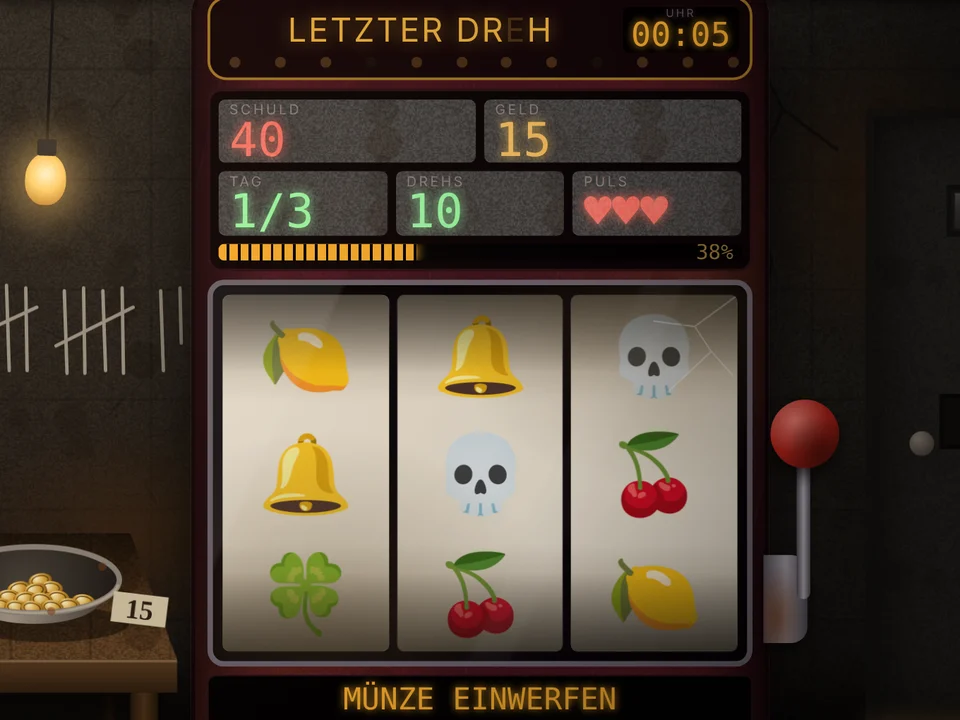
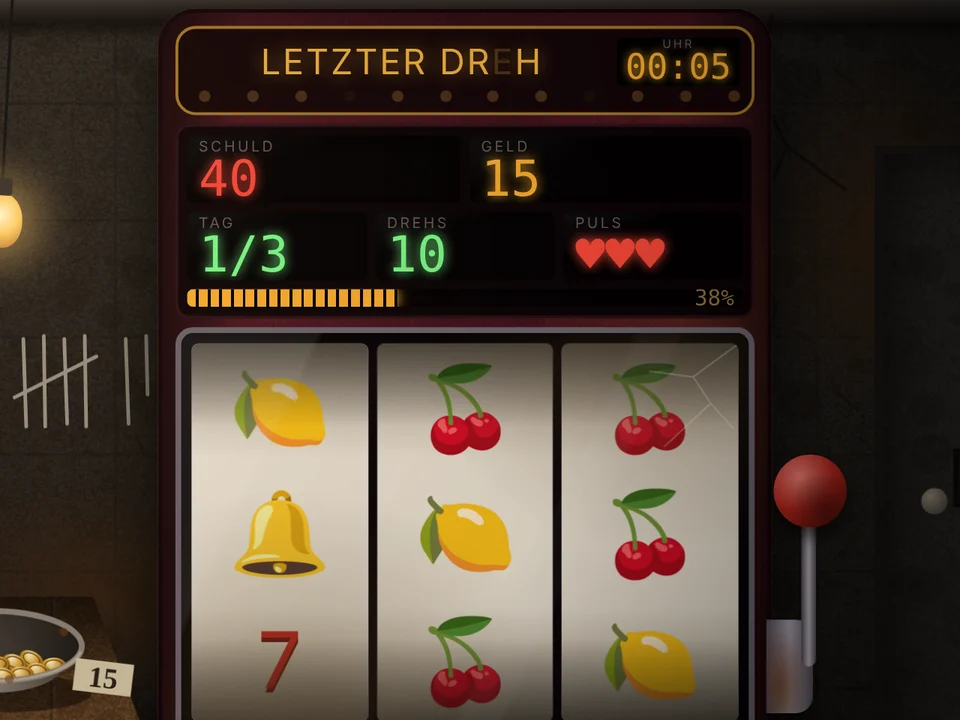
Karten: Letzter Dreh aktualisiert (Kassierer, Zahltag, Türspion, Messer, Gewitter, neue Bilder)
Claude-Session: https://claude.ai/code/session_01K5z61DLcxYTA1iRnY2zuiT

diff --git a/karten/werte.js b/karten/werte.js
@@ -67,6 +67,11 @@ window.WERTE = {
   "ld-klappe":     { t: "zauber", kosten: 1, sucheTyp: "ausr" },
   "ld-hebel":      { t: "ausr", kosten: 2, plusSchaden: 2 },
   "ld-zelle":      { t: "ort", kosten: 2, ort: "zelle" },
+  "ld-kassierer":  { t: "wesen", hp: 11, atk: [["Kassieren", 2, 3, "saugen"], ["Zahltag", 6, 7]] },
+  "ld-zahltag":    { t: "zauber", kosten: 5, schadenAlleFeinde: 3, frostAlle: true },
+  "ld-tuerspion":  { t: "zauber", kosten: 1, ziel: "feindWesen", schaden: 1, frost: true },
+  "ld-messer":     { t: "zauber", kosten: 2, ziel: "feindWesen", schaden: 4 },
+  "ld-gewitter":   { t: "zauber", kosten: 2, frostAlle: true },
   "feuerkoenig":   { t: "wesen", hp: 11, pas: "untot", atk: [["Feuerball", 2, 3], ["Lavawelle", 5, 3, "alle"]] },
 
   /* ---------------- Kammerwerk ---------------- */
@@ -269,7 +274,7 @@ window.GEGNER_DECKS = [
   { name: "Ameisenvolk", deck: ["waldameise", "waldameise", "ernteameise", "ernteameise", "blattschneider", "spinne", "honigtopf", "koenigin", "treiberameise", "gruenling", "gruenling", "kraeuter", "blattlausfarm", "pilzgarten", "funke", "funke", "dolch", "heiltrank", "rivalen", "muenze"] },
   { name: "Turmwacht", deck: ["bolzenturm", "bolzenturm", "kanone-sf", "kanone-sf", "frostkristall", "frostkristall", "blitzspule", "moerser", "leuchtfeuer", "schildtraeger", "wuerfel", "wuerfel", "kristallkern", "kristallkern", "sternblock", "feueratem", "funke", "muenze", "laterne", "burg"] },
   { name: "Nebelwald", deck: ["spinne", "blattschneider", "golem", "drako", "rissbestie", "rissbestie", "kiko", "ernteameise", "waldameise", "phantom", "verband", "gifttrank", "gifttrank", "bombe", "pfotentrank", "grimoire", "fuchsschild", "umhang", "uralter-baum", "heiltrank"] },
-  { name: "Letzter Dreh", deck: ["ld-automat", "ld-glaeubiger", "ld-augen", "ld-augen", "ld-schatten", "ld-schatten", "ld-schatten", "ld-777", "ld-schaedel", "ld-joker", "ld-risiko", "ld-risiko", "ld-strom", "ld-licht", "ld-telefon", "ld-schale", "ld-tagebuch", "ld-striche", "ld-hebel", "ld-zelle"] },
+  { name: "Letzter Dreh", deck: ["ld-automat", "ld-glaeubiger", "ld-augen", "ld-augen", "ld-schatten", "ld-schatten", "ld-kassierer", "ld-777", "ld-schaedel", "ld-joker", "ld-risiko", "ld-risiko", "ld-strom", "ld-licht", "ld-telefon", "ld-messer", "ld-gewitter", "ld-zahltag", "ld-hebel", "ld-zelle"] },
   { name: "Kiko Hüpft", deck: ["kiko", "gruenling", "gruenling", "panzerkaefer", "panzerkaefer", "stachler", "stachler", "flatterling", "flatterling", "kiko-dino", "feuerkoenig", "sternblock", "sternblock", "muenze", "muenze", "roehre", "extraleben", "vier-freunde", "wiesenland", "heiltrank"] },
   { name: "Klarwasser", deck: ["kw-neon", "kw-neon", "kw-guppy", "kw-guppy", "kw-cory", "kw-shrimp", "kw-gourami", "kw-loach", "kw-pleco", "kw-betta", "kw-malawi", "kw-angel", "kw-root", "kw-holey", "kw-cave", "kw-castle", "kw-leaves", "kw-fern", "kw-wreck", "kw-becken"] },
   { name: "Wildnis", deck: ["w-schwein", "w-schwein", "w-huhn", "w-kuh", "w-wolf", "w-wolf", "w-zombie", "w-zombie", "w-skelett", "w-hoehlenspinne", "w-drache", "w-spitzhacke", "w-spitzhacke", "w-fackel", "w-eisen", "w-gold", "w-werkbank", "w-diamant", "w-dschungel", "heiltrank"] },

diff --git a/karten/index.html b/karten/index.html
@@ -768,6 +768,11 @@ const CARDS = [
   { id: "ld-klappe",   set: "letzter-dreh", r: "rare",      pow: 3,  name: "Die Klappe",           pic: "ld-klappe",   scene: "foto", text: "Ein Tablett wird durchgeschoben. Für einen Preis." },
   { id: "ld-hebel",    set: "letzter-dreh", r: "rare",      pow: 3,  name: "Schwerer Hebel",       pic: "ld-hebel",    scene: "foto", text: "Ziehen. Loslassen. Hoffen." },
   { id: "ld-zelle",    set: "letzter-dreh", r: "epic",      pow: 5,  name: "Die Zelle",            pic: "ld-zelle",    scene: "foto", ort: 1, text: "Kalter Beton. Ein Automat. Eine Tür ohne Klinke." },
+  { id: "ld-kassierer", set: "letzter-dreh", r: "legendary", pow: 8, name: "Der Kassierer",       pic: "ld-kassierer", scene: "foto", text: "Am Zahltag geht die Tür auf. Er nimmt alles, was in der Schale liegt." },
+  { id: "ld-zahltag",  set: "letzter-dreh", r: "epic",      pow: 6,  name: "Zahltag",              pic: "ld-gesicht",  scene: "foto", text: "»Ich hab dir drei Tage gegeben.«" },
+  { id: "ld-tuerspion", set: "letzter-dreh", r: "rare",     pow: 3,  name: "Türspion",             pic: "ld-auge",     scene: "foto", text: "Du schaust hinaus. Etwas schaut zurück." },
+  { id: "ld-messer",   set: "letzter-dreh", r: "rare",      pow: 4,  name: "Das Messer",           pic: "ld-messer",   scene: "foto", text: "Neugier kostet auch." },
+  { id: "ld-gewitter", set: "letzter-dreh", r: "common",    pow: 2,  name: "Gewitter",             pic: "ld-gewitter", scene: "foto", text: "Ein Blitz, der Strom fällt aus. Der Automat startet neu." },
   { id: "w-schwein",   set: "wildnis",    r: "common",    pow: 1,  name: "Schwein",            art: "w_schwein",  text: "Grunzt, wühlt, frisst alles." },
   { id: "w-huhn",      set: "wildnis",    r: "common",    pow: 1,  name: "Huhn",               pic: "w-huhn",     text: "Schneller, als es aussieht." },
   { id: "w-kuh",       set: "wildnis",    r: "common",    pow: 2,  name: "Kuh",                pic: "w-kuh",      text: "Frische Milch für alle." },
